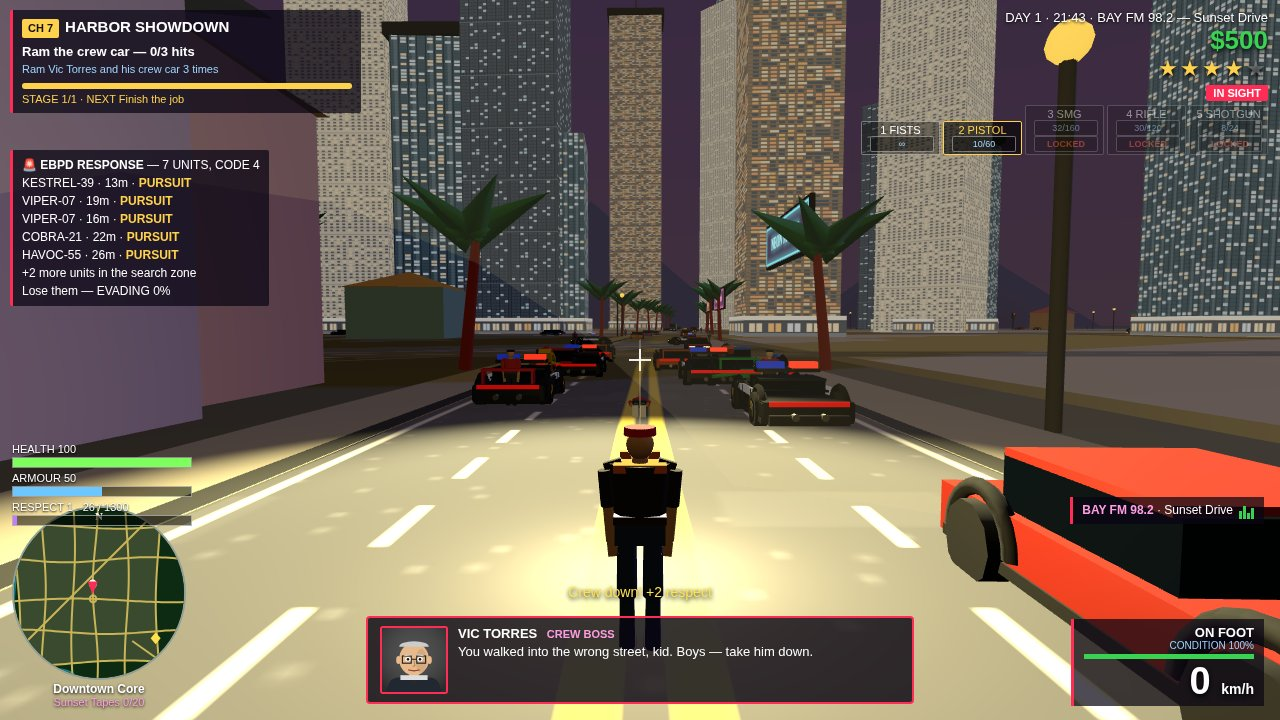
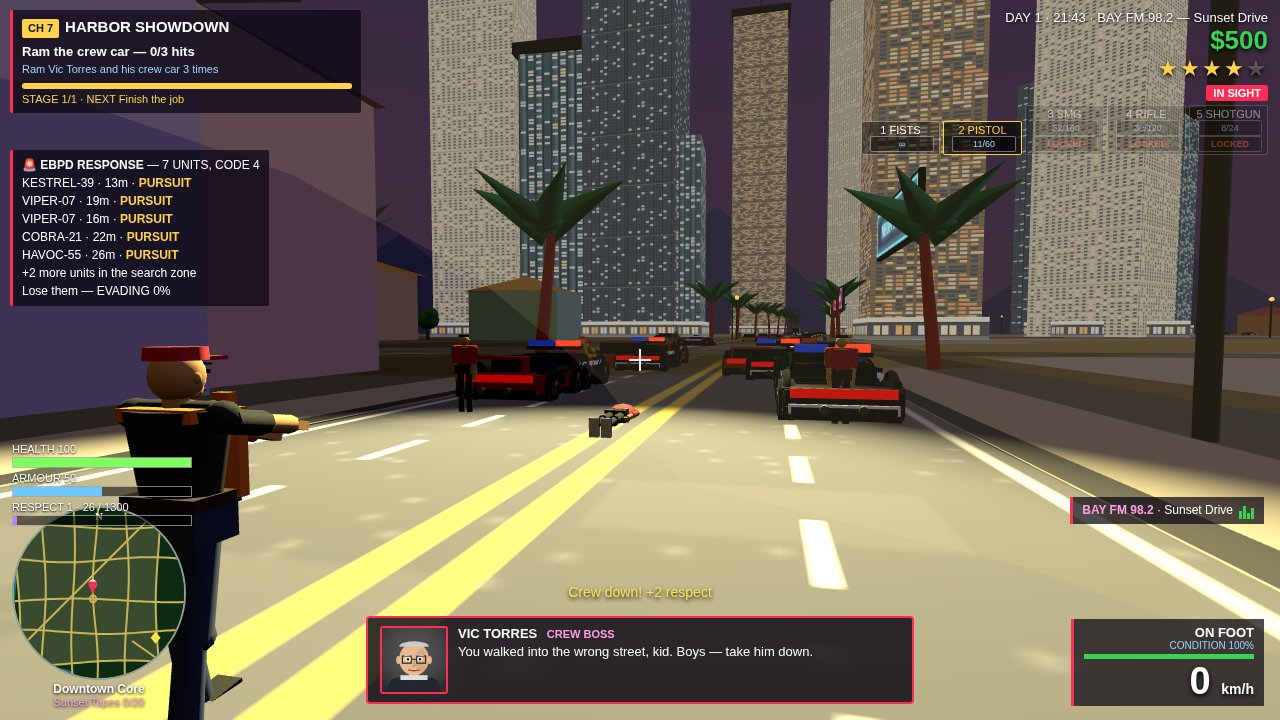
Ember Bay v15: no more clipping, human-like people, real-car shapes

diff --git a/game/src/shots.js b/game/src/shots.js
@@ -1,9 +1,31 @@
 import * as THREE from 'three';
 import { makeCar, makeBike, createDrive } from './vehicles.js';
 import { makePoliceCar, makeHeli } from './police.js';
-import { ROADS, roadPoint, nsCenter, nsHeading } from './city.js';
+import { ROADS, roadPoint, nsCenter, nsHeading, ewCenter, ewHeading } from './city.js';
 
 const STAGE_ROAD = 3;
+
+function parkFar(c, i) {
+  const far = (i % 2 === 0 ? -1 : 1) * (380 + (i % 5) * 8);
+  if (c.axis === 'ns') {
+    c.pos.z = far;
+    c.pos.x = nsCenter(c.road, far, c.dir) + (c.dir > 0 ? -3.5 : 3.5);
+    c.heading = nsHeading(c.road, far, c.dir);
+  } else {
+    c.pos.x = far;
+    c.pos.z = ewCenter(c.road, far, c.dir) + (c.dir > 0 ? 3.5 : -3.5);
+    c.heading = ewHeading(c.road, far, c.dir);
+  }
+  c.targetHeading = c.heading;
+  c.group.position.copy(c.pos);
+  c.group.rotation.y = c.heading;
+}
+
+let cityParked = null;
+function cityParkedCars(G) {
+  if (!cityParked) cityParked = G.city.root.children.filter((o) => o.userData && o.userData.parkedCar);
+  return cityParked;
+}
 
 function enterSportCar(G, x, z, heading, speed) {
   const v = makeCar(G, 'sport', 2);
@@ -27,6 +49,7 @@ function enterBike(G, x, z, heading, speed) {
 
 export function stageShot(G, name) {
   G.shot = name;
+  G._aimPose = false;
   if (name === 'title') {
     G.setClock(17.75);
     G.mode = 'playing';
@@ -73,14 +96,15 @@ export function stageShot(G, name) {
     G.playerHeading = cpt.heading;
     const fx = Math.sin(cpt.heading), fz = Math.cos(cpt.heading);
     const rx = Math.cos(cpt.heading), rz = -Math.sin(cpt.heading);
-    G.spawnCrew(cpt.x + fx * 14, cpt.z + fz * 14, 3);
+    G.spawnCrew(cpt.x + fx * 10, cpt.z + fz * 10, 3);
     G.missions.startId(7);
     G.police.setWanted(4);
     G.hud.dialogue('VIC TORRES', 'CREW BOSS', 'You walked into the wrong street, kid. Boys — take him down.', 'vic', true);
     G._shotTimer = 0;
+    G._aimPose = true;
     G.camOverride = {
-      pos: [cpt.x - fx * 4.5, 2.6, cpt.z - fz * 4.5],
-      look: [cpt.x + fx * 16, 1.4, cpt.z + fz * 16],
+      pos: [cpt.x - fx * 2.2 - rx * 2.6, 1.9, cpt.z - fz * 2.2 - rz * 2.6],
+      look: [cpt.x + fx * 10, 1.3, cpt.z + fz * 10],
     };
   }
 }
@@ -88,6 +112,7 @@ export function stageShot(G, name) {
 export function updateShot(G, dt) {
   if (!G.shot || G.shot === 'map') return;
   const P = G.police;
+  if (G.shot !== 'combat') for (const g of cityParkedCars(G)) g.visible = true;
   if (G.shot === 'title') {
     G._titleT = (G._titleT || 0) + dt;
     const road = ROADS.ns[STAGE_ROAD];
@@ -154,6 +179,8 @@ export function updateShot(G, dt) {
         tc.group.position.copy(tc.pos);
         tc.group.rotation.y = car.heading;
       });
+      G.traffic.cars.forEach((c, i) => { if (!tHeld.includes(c)) parkFar(c, i); });
+      G.traffic.bikes.forEach((c, i) => parkFar(c, i));
       G.camOverride = {
         pos: [car.pos.x - fx * 10 + rx * 4, 2.6, car.pos.z - fz * 10 + rz * 4],
         look: [car.pos.x + fx * 8, 1.2, car.pos.z + fz * 8],
@@ -167,6 +194,7 @@ export function updateShot(G, dt) {
     if (G._shotTimer > 1.4) { G._shotTimer = 0; G.shoot(); }
     const pp = G.playerPos;
     const ph = G.playerHeading;
+    for (const g of cityParkedCars(G)) g.visible = Math.hypot(g.position.x - pp.x, g.position.z - pp.z) > 25;
     const fx = Math.sin(ph), fz = Math.cos(ph);
     const rx = Math.cos(ph), rz = -Math.sin(ph);
     const holdTraffic = (car, fwd, side) => {
@@ -179,20 +207,22 @@ export function updateShot(G, dt) {
     const sports = G.traffic.cars.filter((c) => c.kind === 'sport' && c.color !== 0xffc21c);
     const others = G.traffic.cars.filter((c) => c.kind !== 'sport' || c.color === 0xffc21c);
     const held = [...sports, ...others];
-    holdTraffic(held[0], 22, -4);
-    holdTraffic(held[1], 16, 4);
-    holdTraffic(held[2], 30, -2);
-    holdTraffic(held[3], 38, 3);
+    holdTraffic(held[0], 18, -4);
+    holdTraffic(held[1], 14, 4);
+    holdTraffic(held[2], 24, -2);
+    holdTraffic(held[3], 30, 3);
+    G.traffic.cars.forEach((c, i) => { if (!held.includes(c)) parkFar(c, i); });
     const bikeA = G.traffic.bikes[0];
     if (bikeA) {
-      bikeA.pos.set(pp.x + rx * 4, 0, pp.z + rz * 4 + fz * 20);
+      bikeA.pos.set(pp.x + rx * 4, 0, pp.z + rz * 4 + fz * 18);
       bikeA.heading = ph; bikeA.group.position.copy(bikeA.pos); bikeA.group.rotation.y = ph;
     }
     const bikeB = G.traffic.bikes[1];
     if (bikeB) {
-      bikeB.pos.set(pp.x - rx * 4, 0, pp.z - rz * 4 + fz * 24);
+      bikeB.pos.set(pp.x - rx * 4, 0, pp.z - rz * 4 + fz * 22);
       bikeB.heading = ph; bikeB.group.position.copy(bikeB.pos); bikeB.group.rotation.y = ph;
     }
+    G.traffic.bikes.forEach((c, i) => { if (c !== bikeA && c !== bikeB) parkFar(c, i); });
     const cars = P.units.filter((u) => u.kind === 'car');
     const carSlots = [[-4, 12], [4, 16], [-3, 22], [3, 26], [-4, 30], [4, 34]];
     cars.forEach((c, i) => {
@@ -213,14 +243,20 @@ export function updateShot(G, dt) {
     while (dh > Math.PI) dh -= Math.PI * 2;
     while (dh < -Math.PI) dh += Math.PI * 2;
     G.vehicle.heading += dh * Math.min(1, dt * 6);
-    G.vehicle.pos.x = nsCenter(road, G.vehicle.pos.z, 1) - 3.5;
+    G.vehicle.pos.x = nsCenter(road, G.vehicle.pos.z, 1);
     G.vehicle.sync();
     G.playerHeading = G.vehicle.heading;
   }
   if (G.shot === 'cover' && G.vehicle) {
     const t = nsHeading(road, G.vehicle.pos.z, 1);
-    G.vehicle.heading = t + 0.35;
+    G.vehicle.heading = t + 0.22;
     G.vehicle.sync();
+    const hx = Math.sin(G.vehicle.heading), hz = Math.cos(G.vehicle.heading);
+    const rx2 = Math.cos(G.vehicle.heading), rz2 = -Math.sin(G.vehicle.heading);
+    G.camOverride = {
+      pos: [G.vehicle.pos.x - hx * 6.5 + rx2 * 1.5, 2.8, G.vehicle.pos.z - hz * 6.5 + rz2 * 1.5],
+      look: [G.vehicle.pos.x + hx * 10, 1.4, G.vehicle.pos.z + hz * 10],
+    };
     const d = G.vehicle.drift;
     d.active = true;
     d.angle = 20;
@@ -251,27 +287,34 @@ export function updateShot(G, dt) {
   const sports = G.traffic.cars.filter((c) => c.kind === 'sport' && c.color !== 0xffc21c);
   const others = G.traffic.cars.filter((c) => c.kind !== 'sport' || c.color === 0xffc21c);
   const held = [...sports, ...others];
-  const slots = [[12, 0.5], [16, 4.5], [24, 0.5], [30, 4.5], [40, 0.5], [50, 4.5]];
+  const slots = [[18, 4.5], [24, -4.5], [32, 4.5], [40, -4.5], [50, 4.5], [60, -4.5]];
   slots.forEach(([fwd, side], i) => holdTraffic(held[i], fwd, side));
+  G.traffic.cars.forEach((c, i) => { if (!held.includes(c)) parkFar(c, i); });
   const cars = P.units.filter((u) => u.kind === 'car');
-  if (cars[0]) {
-    cars[0].pos.set(pp.x + rx * 4.5 + fx * 8, 0, pp.z + rz * 4.5 + fz * 8);
-    cars[0].heading = ph; cars[0].group.position.copy(cars[0].pos); cars[0].group.rotation.y = ph;
-  }
-  if (cars[1]) {
-    cars[1].pos.set(pp.x + rx * 0.5 + fx * 22, 0, pp.z + rz * 0.5 + fz * 22);
-    cars[1].heading = ph; cars[1].group.position.copy(cars[1].pos); cars[1].group.rotation.y = ph;
-  }
+  const copSlots = [[4.5, 14], [-4.5, 20], [4.5, 26]];
+  cars.forEach((c, i) => {
+    const [side, fwd] = copSlots[i % copSlots.length];
+    c.pos.set(pp.x + rx * side + fx * fwd, 0, pp.z + rz * side + fz * fwd);
+    c.heading = ph; c.group.position.copy(c.pos); c.group.rotation.y = ph;
+  });
+  const pbikes = P.units.filter((u) => u.kind === 'bike');
+  pbikes.forEach((b, i) => {
+    const side = i % 2 === 0 ? 4.5 : -4.5;
+    const fwd = 32 + i * 6;
+    b.pos.set(pp.x + rx * side + fx * fwd, 0, pp.z + rz * side + fz * fwd);
+    b.heading = ph; b.group.position.copy(b.pos); b.group.rotation.y = ph;
+  });
   const bike = G.traffic.bikes[0];
   if (bike) {
-    bike.pos.set(pp.x + rx * 4.5, 0, pp.z + rz * 4.5 + fz * 26);
+    bike.pos.set(pp.x + rx * -3.5, 0, pp.z + rz * -3.5 + fz * 30);
     bike.heading = ph; bike.group.position.copy(bike.pos); bike.group.rotation.y = ph;
   }
   const bike2 = G.traffic.bikes[1];
   if (bike2) {
-    bike2.pos.set(pp.x + rx * 0.5, 0, pp.z + rz * 0.5 + fz * 40);
+    bike2.pos.set(pp.x + rx * 3.5, 0, pp.z + rz * 3.5 + fz * 38);
     bike2.heading = ph; bike2.group.position.copy(bike2.pos); bike2.group.rotation.y = ph;
   }
+  G.traffic.bikes.forEach((c, i) => { if (c !== bike && c !== bike2) parkFar(c, i); });
   if (P.heli) P.heli.group.position.set(pp.x + fx * 26, 24, pp.z + fz * 26);
 }
 

diff --git a/game/src/vehicles.js b/game/src/vehicles.js
@@ -113,7 +113,7 @@ export function sportWheel(r = 0.46, caliperColor = 0xffc21c) {
 export function makeCar(G, kind, colorIdx = 0) {
   const g = new THREE.Group();
   const color = (CAR_COLORS[kind] || CAR_COLORS.sedan)[colorIdx % (CAR_COLORS[kind] || []).length];
-  const paint = std(color);
+  const paint = std(color, { roughness: 0.3, metalness: 0.55 });
   const glass = std(0x14202e, { roughness: 0.12, metalness: 0.65 });
   const dark = std(0x1a1a1a, { roughness: 0.8, metalness: 0.1 });
   const chrome = std(0xd8d8d8, { metalness: 0.9, roughness: 0.2 });
@@ -141,6 +141,8 @@ export function makeCar(G, kind, colorIdx = 0) {
     lamps(g, 3.74, -4.22, 0.95);
   } else if (kind === 'van') {
     box(2.3, 1.9, 5.4, paint, 0, 1.35, 0, g);
+    box(2.34, 0.1, 5.2, paint, 0, 1.0, 0, g);
+    box(2.2, 0.16, 5.2, dark, 0, 0.42, 0, g);
     box(2.0, 0.8, 0.9, glass, 0, 1.85, 2.0, g, 0.28, 0, 0);
     box(0.06, 0.7, 3.0, glass, -1.16, 1.55, -0.4, g);
     box(0.06, 0.7, 3.0, glass, 1.16, 1.55, -0.4, g);
@@ -158,6 +160,8 @@ export function makeCar(G, kind, colorIdx = 0) {
     lamps(g, 2.72, -2.72, 0.95);
   } else if (kind === 'pickup') {
     box(2.3, 0.85, 5.2, paint, 0, 0.8, 0, g);
+    box(2.34, 0.12, 5.0, paint, 0, 1.02, 0, g);
+    box(2.2, 0.16, 5.0, dark, 0, 0.42, 0, g);
     box(2.2, 0.1, 1.4, paint, 0, 1.28, 1.6, g, 0.1, 0, 0);
     box(1.95, 0.75, 1.5, glass, 0, 1.65, 1.55, g);
     box(2.0, 0.08, 1.45, paint, 0, 2.06, 1.55, g);
@@ -183,7 +187,12 @@ export function makeCar(G, kind, colorIdx = 0) {
     };
     box(2.2, 0.42, 4.8, paint, 0, 0.52, 0, g);
     box(2.1, 0.3, 1.3, paint, 0, 0.48, 1.85, g, -0.16, 0, 0);
+    box(1.9, 0.3, 0.7, paint, 0, 0.4, 2.2, g, -0.32, 0, 0);
+    box(1.95, 0.22, 0.25, dark, 0, 0.3, 2.42, g);
+    box(2.24, 0.12, 4.5, paint, 0, 0.74, 0, g);
+    box(2.0, 0.16, 4.5, dark, 0, 0.26, 0, g);
     box(2.15, 0.34, 0.9, paint, 0, 0.6, -1.95, g);
+    box(2.1, 0.2, 0.2, dark, 0, 0.36, -2.4, g);
     box(2.22, 0.12, 4.6, dark, 0, 0.3, 0, g);
     box(0.06, 0.3, 0.8, dark, -1.11, 0.6, -0.9, g);
     box(0.06, 0.3, 0.8, dark, 1.11, 0.6, -0.9, g);
@@ -192,9 +201,10 @@ export function makeCar(G, kind, colorIdx = 0) {
     box(0.06, 0.1, 0.9, chrome, -1.07, 0.88, -0.55, g);
     box(0.06, 0.1, 0.9, chrome, 1.07, 0.88, -0.55, g);
     box(1.7, 0.38, 1.5, glass, 0, 0.95, -0.15, g);
-    box(1.75, 0.07, 1.4, dark, 0, 1.16, -0.2, g);
+    box(1.6, 0.07, 1.3, dark, 0, 1.16, -0.2, g);
     box(1.66, 0.05, 0.9, glass, 0, 0.92, 0.62, g, 0.55, 0, 0);
     box(1.66, 0.05, 0.7, glass, 0, 0.9, -0.92, g, -0.5, 0, 0);
+    box(1.62, 0.1, 0.06, dark, 0, 0.78, -1.28, g);
     box(0.1, 0.22, 0.1, dark, -0.7, 0.95, -2.3, g);
     box(0.1, 0.22, 0.1, dark, 0.7, 0.95, -2.3, g);
     box(1.6, 0.08, 0.4, paint, 0, 1.24, -2.32, g);
@@ -211,7 +221,9 @@ export function makeCar(G, kind, colorIdx = 0) {
     box(0.3, 0.1, 0.08, head, -0.85, 0.52, 2.4, g, 0, -0.9, 0);
     box(0.3, 0.1, 0.08, head, 0.85, 0.52, 2.4, g, 0, 0.9, 0);
     const tailBar = std(0xd81a1a, { emissive: 0xaa0000, emissiveIntensity: 1.1 });
-    box(1.9, 0.12, 0.08, tailBar, 0, 0.72, -2.42, g);
+    box(1.9, 0.18, 0.08, tailBar, 0, 0.72, -2.42, g);
+    box(0.3, 0.18, 0.08, tailBar, -0.82, 0.72, -2.42, g);
+    box(0.3, 0.18, 0.08, tailBar, 0.82, 0.72, -2.42, g);
     box(0.05, 0.05, 0.2, dark, -1.06, 0.98, 0.55, g);
     box(0.05, 0.05, 0.2, dark, 1.06, 0.98, 0.55, g);
     box(0.16, 0.09, 0.18, paint, -1.12, 1.0, 0.55, g);
@@ -232,18 +244,22 @@ export function makeCar(G, kind, colorIdx = 0) {
     const bodyY = 0.52 - drop;
     box(2.0, 0.5, 4.6, paint, 0, bodyY, 0, g);
     box(2.04, 0.1, 4.4, dark, 0, bodyY - 0.26, 0, g);
-    box(1.95, 0.1, 1.5, paint, 0, bodyY + 0.3, 1.5, g, 0.1, 0, 0);
+    box(2.06, 0.12, 4.4, paint, 0, bodyY + 0.26, 0, g);
+    box(1.9, 0.16, 4.4, dark, 0, bodyY - 0.3, 0, g);
+    box(1.95, 0.1, 1.7, paint, 0, bodyY + 0.3, 1.5, g, 0.18, 0, 0);
+    box(1.85, 0.26, 0.5, paint, 0, bodyY + 0.22, 2.2, g, -0.28, 0, 0);
     box(2.0, 0.35, 0.35, dark, 0, bodyY - 0.12, 2.2, g);
     box(2.0, 0.35, 0.35, dark, 0, bodyY - 0.12, -2.2, g);
-    box(1.75, 0.55, 2.1, glass, 0, bodyY + 0.53, -0.35, g);
-    box(1.8, 0.08, 1.9, paint, 0, bodyY + 0.83, -0.35, g);
-    box(1.7, 0.05, 0.85, glass, 0, bodyY + 0.6, 0.68, g, 0.5, 0, 0);
-    box(1.7, 0.05, 0.8, glass, 0, bodyY + 0.58, -1.38, g, -0.42, 0, 0);
+    box(1.75, 0.48, 2.1, glass, 0, bodyY + 0.5, -0.35, g);
+    box(1.7, 0.08, 1.9, paint, 0, bodyY + 0.78, -0.35, g);
+    box(1.7, 0.05, 0.85, glass, 0, bodyY + 0.58, 0.68, g, 0.5, 0, 0);
+    box(1.7, 0.05, 0.8, glass, 0, bodyY + 0.56, -1.38, g, -0.42, 0, 0);
     box(0.08, 0.55, 0.1, dark, -0.88, bodyY + 0.53, -0.35, g);
     box(0.08, 0.55, 0.1, dark, 0.88, bodyY + 0.53, -0.35, g);
     box(0.1, 0.5, 0.1, dark, -0.85, bodyY + 0.55, 0.62, g, 0.5, 0, 0);
     box(0.1, 0.5, 0.1, dark, 0.85, bodyY + 0.55, 0.62, g, 0.5, 0, 0);
-    box(1.95, 0.42, 0.95, paint, 0, bodyY + 0.28, -1.82, g);
+    box(1.95, 0.42, 0.95, paint, 0, bodyY + 0.28, -1.82, g, -0.12, 0, 0);
+    box(1.9, 0.1, 0.3, paint, 0, bodyY + 0.5, -2.26, g, -0.12, 0, 0);
     box(1.95, 0.06, 0.2, paint, 0, bodyY + 0.5, -2.24, g);
     box(2.04, 0.06, 4.3, chrome, 0, bodyY + 0.22, 0, g);
     box(0.04, 0.05, 0.28, chrome, -1.01, bodyY + 0.36, 0.25, g);

diff --git a/game/src/people.js b/game/src/people.js
@@ -40,9 +40,9 @@ export function makePerson(G, opts = {}) {
   const makeLeg = (side) => {
     const hip = new THREE.Group();
     hip.position.set(side * 0.1, 0.98, 0);
-    limb(0, 0, 0, 0, -0.46, 0, 0.08, pantsM, hip);
-    limb(0, -0.46, 0, 0, -0.88, 0.02, 0.062, pantsM, hip);
-    const knee = new THREE.Mesh(new THREE.SphereGeometry(0.07, 8, 6), pantsM);
+    limb(0, 0, 0, 0, -0.46, 0, 0.085, pantsM, hip);
+    limb(0, -0.46, 0, 0, -0.88, 0.02, 0.066, pantsM, hip);
+    const knee = new THREE.Mesh(new THREE.SphereGeometry(0.075, 8, 6), pantsM);
     knee.position.set(0, -0.46, 0.03); hip.add(knee);
     box(0.15, 0.08, 0.3, shoeM, 0, -0.93, 0.05, hip);
     box(0.16, 0.03, 0.31, soleM, 0, -0.97, 0.05, hip);
@@ -55,10 +55,20 @@ export function makePerson(G, opts = {}) {
   box(0.38, 0.18, 0.22, pantsM, 0, 1.04, 0, g);
   box(0.4, 0.06, 0.24, std(0x3a2a1a, { roughness: 0.6 }), 0, 1.14, 0, g);
   box(0.08, 0.05, 0.03, std(0xd8d8d8, { metalness: 0.8, roughness: 0.3 }), 0, 1.14, 0.13, g);
-  const chest = new THREE.Mesh(new THREE.CylinderGeometry(0.24, 0.2, 0.42, 8), shirtM);
+  const chest = new THREE.Mesh(new THREE.CylinderGeometry(0.26, 0.19, 0.42, 10), shirtM);
   chest.position.set(0, 1.34, 0);
   chest.scale.set(1, 1, 0.62);
   g.add(chest);
+  const shoulderBar = new THREE.Mesh(new THREE.CylinderGeometry(0.07, 0.07, 0.46, 8), shirtM);
+  shoulderBar.rotation.z = Math.PI / 2;
+  shoulderBar.position.set(0, 1.52, 0);
+  shoulderBar.scale.set(1, 1, 0.7);
+  g.add(shoulderBar);
+  for (const sx of [-0.24, 0.24]) {
+    const cap = new THREE.Mesh(new THREE.SphereGeometry(0.075, 8, 6), shirtM);
+    cap.position.set(sx, 1.52, 0);
+    g.add(cap);
+  }
   box(0.14, 0.1, 0.05, shirtM, -0.2, 1.52, 0.02, g, 0, 0, 0.3);
   box(0.14, 0.1, 0.05, shirtM, 0.2, 1.52, 0.02, g, 0, 0, -0.3);
   if (shirt2 !== null) {
@@ -99,9 +109,12 @@ export function makePerson(G, opts = {}) {
     const sh = new THREE.Group();
     sh.position.set(side * 0.27, 1.5, 0);
     sh.rotation.z = -side * 0.1;
-    limb(0, 0, 0, 0, -0.28, 0.01, 0.058, shirtM, sh);
-    limb(0, -0.28, 0.01, 0, -0.56, 0.02, 0.047, armM, sh);
-    box(0.08, 0.11, 0.04, skinM, 0, -0.62, 0.02, sh);
+    limb(0, 0, 0, 0, -0.28, 0.01, 0.062, shirtM, sh);
+    const elbow = new THREE.Mesh(new THREE.SphereGeometry(0.058, 8, 6), shirtM);
+    elbow.position.set(0, -0.28, 0.01);
+    sh.add(elbow);
+    limb(0, -0.28, 0.01, 0, -0.56, 0.02, 0.05, armM, sh);
+    box(0.09, 0.12, 0.05, skinM, 0, -0.62, 0.02, sh);
     g.add(sh);
     return sh;
   };
@@ -117,6 +130,12 @@ export function makePerson(G, opts = {}) {
   jaw.position.set(0, -0.06, 0.02);
   jaw.scale.set(0.85, 0.7, 0.9);
   head.add(jaw);
+  for (const ex of [-0.108, 0.108]) {
+    const ear = new THREE.Mesh(new THREE.SphereGeometry(0.028, 8, 6), skinM);
+    ear.position.set(ex, -0.01, 0);
+    ear.scale.set(0.5, 1, 0.8);
+    head.add(ear);
+  }
   const eyeM = std(0x141414, { roughness: 0.4 });
   box(0.026, 0.018, 0.012, eyeM, -0.042, 0.015, 0.108, head);
   box(0.026, 0.018, 0.012, eyeM, 0.042, 0.015, 0.108, head);

diff --git a/game/src/police.js b/game/src/police.js
@@ -28,14 +28,21 @@ export function makePoliceCar(G) {
   };
   box(2.2, 0.42, 4.8, black, 0, 0.52, 0, g);
   box(2.1, 0.3, 1.3, black, 0, 0.48, 1.85, g, -0.16, 0, 0);
+  box(1.9, 0.3, 0.7, black, 0, 0.4, 2.2, g, -0.32, 0, 0);
+  box(1.95, 0.22, 0.25, dark, 0, 0.3, 2.42, g);
+  box(2.24, 0.12, 4.5, black, 0, 0.74, 0, g);
+  box(2.0, 0.16, 4.5, dark, 0, 0.26, 0, g);
   box(2.15, 0.34, 0.9, black, 0, 0.6, -1.95, g);
+  box(2.1, 0.2, 0.2, dark, 0, 0.36, -2.4, g);
+  box(2.0, 0.18, 0.1, white, 0, 0.42, -2.46, g);
   box(2.22, 0.12, 4.6, dark, 0, 0.3, 0, g);
   box(0.06, 0.46, 2.4, white, -1.06, 0.72, 0.15, g);
   box(0.06, 0.46, 2.4, white, 1.06, 0.72, 0.15, g);
   box(0.065, 0.08, 2.4, dark, -1.07, 0.5, 0.15, g);
   box(0.065, 0.08, 2.4, dark, 1.07, 0.5, 0.15, g);
   box(1.7, 0.38, 1.5, glass, 0, 0.95, -0.15, g);
-  box(1.75, 0.07, 1.4, black, 0, 1.16, -0.2, g);
+  box(1.6, 0.07, 1.3, black, 0, 1.16, -0.2, g);
+  box(1.62, 0.1, 0.06, dark, 0, 0.78, -1.28, g);
   box(1.66, 0.05, 0.9, glass, 0, 0.92, 0.62, g, 0.55, 0, 0);
   box(1.66, 0.05, 0.7, glass, 0, 0.9, -0.92, g, -0.5, 0, 0);
   box(0.08, 0.38, 0.1, dark, -0.86, 0.95, -0.15, g);
@@ -68,7 +75,9 @@ export function makePoliceCar(G) {
   box(0.6, 0.12, 0.08, head, -0.7, 0.62, 2.42, g, 0, -0.45, 0);
   box(0.6, 0.12, 0.08, head, 0.7, 0.62, 2.42, g, 0, 0.45, 0);
   const tailBar = std(0xd81a1a, { emissive: 0xaa0000, emissiveIntensity: 1.1 });
-  box(1.9, 0.12, 0.08, tailBar, 0, 0.72, -2.42, g);
+  box(1.9, 0.18, 0.08, tailBar, 0, 0.72, -2.42, g);
+  box(0.3, 0.18, 0.08, tailBar, -0.82, 0.72, -2.42, g);
+  box(0.3, 0.18, 0.08, tailBar, 0.82, 0.72, -2.42, g);
   g.traverse((o) => { if (o.isMesh) { o.castShadow = true; o.receiveShadow = false; } });
   return { group: g, red, blue, wheels };
 }

diff --git a/game/src/player.js b/game/src/player.js
@@ -50,6 +50,11 @@ export function createPlayer(G) {
       const s = Math.sin(P.walkPhase);
       hipL.rotation.x = s * swing; hipR.rotation.x = -s * swing;
       shL.rotation.x = -s * swing * 0.8; shR.rotation.x = s * swing * 0.8;
+      if (G._aimPose) {
+        shL.rotation.x = -1.35; shR.rotation.x = -1.25;
+        shL.rotation.z = 0.3; shR.rotation.z = -0.3;
+        hipL.rotation.x = 0.15; hipR.rotation.x = -0.12;
+      }
       P.pos.x = Math.max(-455, Math.min(455, P.pos.x));
       P.pos.z = Math.max(-455, Math.min(455, P.pos.z));
       P.sync();

diff --git a/game/src/city.js b/game/src/city.js
@@ -1127,6 +1127,7 @@ export function buildCity(G) {
     box(0.6, 0.14, 0.08, mat(0xd81a1a, { emissive: 0xaa0000, emissiveIntensity: 0.8 }), 0.65, 0.62, -2.32, g);
     g.position.set(x, 0, z);
     g.rotation.y = heading;
+    g.userData.parkedCar = true;
     g.traverse((o) => { if (o.isMesh) o.castShadow = true; });
     root.add(g);
     return g;
